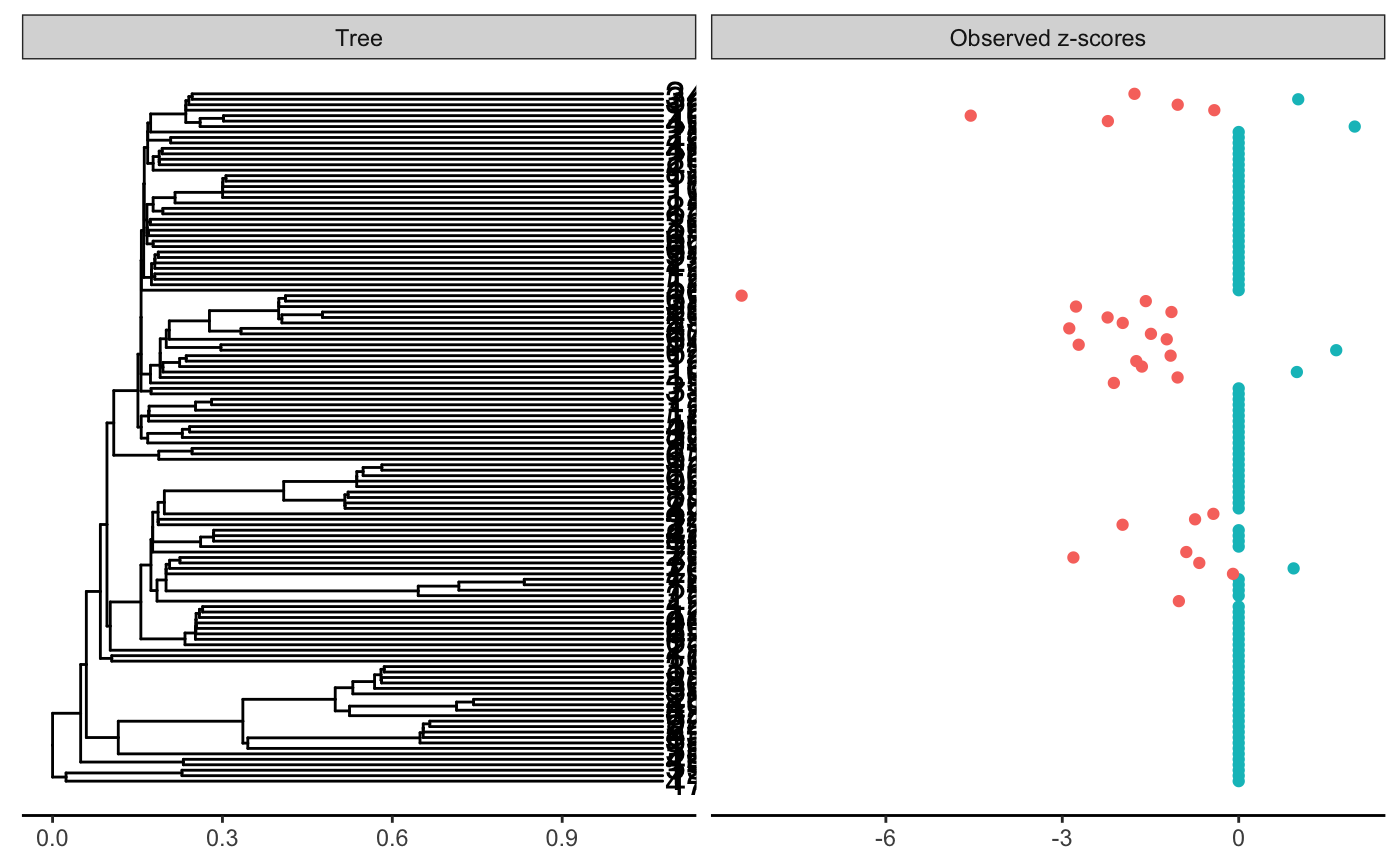
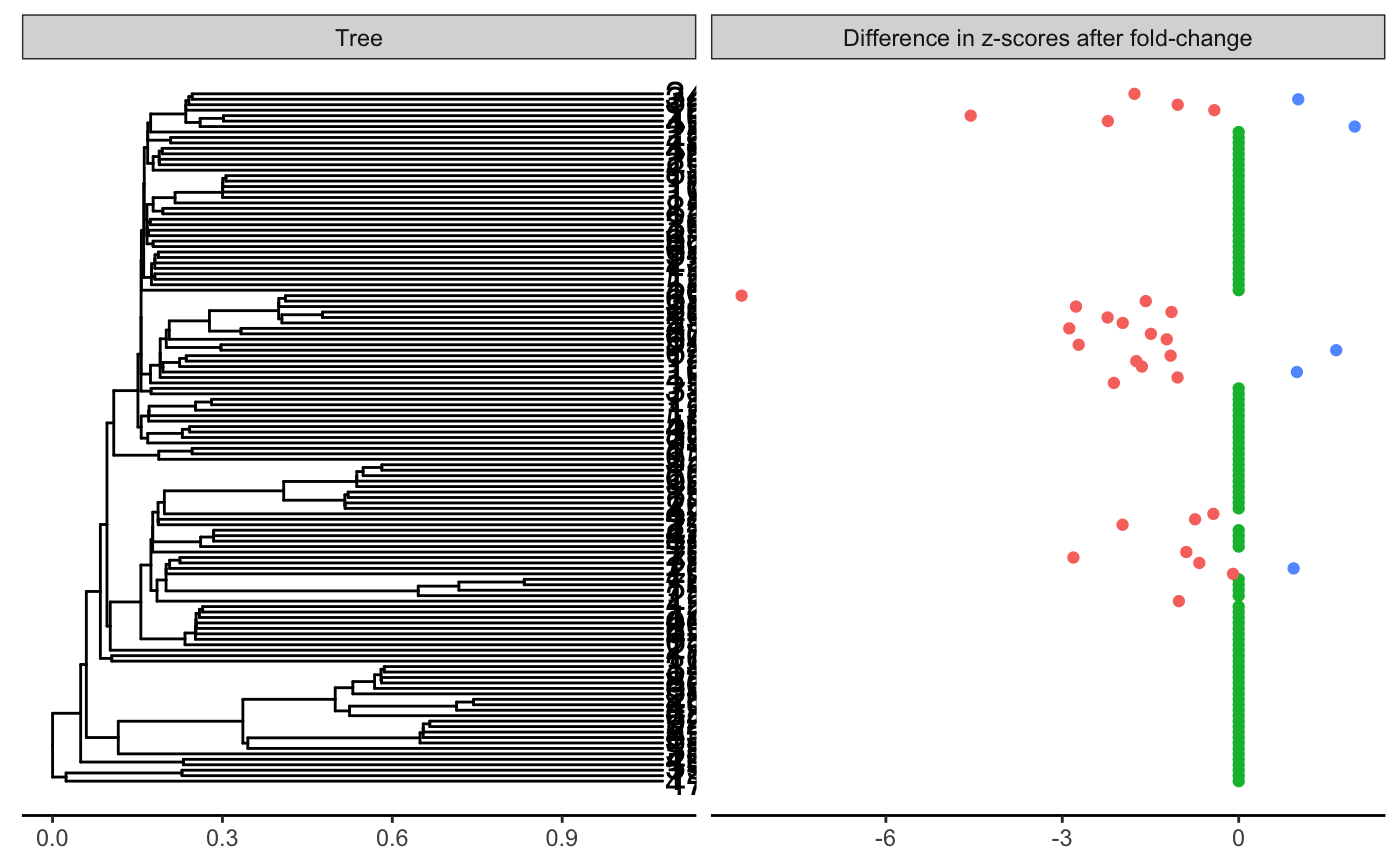
plot_shifts() now accepts supplementary pannels with sup_scores() argument

diff --git a/inst/docs/articles/simulations.html b/inst/docs/articles/simulations.html
@@ -323,8 +323,11 @@
 <a class="sourceLine" id="cb20-3" data-line-number="3"><span class="kw"><a href="../reference/plot_shifts.html">plot_shifts</a></span>(tree, <span class="ot">NA</span>, <span class="dt">obs_scores =</span> zscores)</a>
 <a class="sourceLine" id="cb20-4" data-line-number="4"><span class="co">#&gt; Warning: Removed 253 rows containing missing values (geom_label).</span></a></code></pre></div>
 <p><img src="simulations_files/figure-html/unnamed-chunk-11-1.png" width="700" style="display: block; margin: auto;"></p>
-<div class="sourceCode" id="cb21"><pre class="sourceCode r"><code class="sourceCode r"><a class="sourceLine" id="cb21-1" data-line-number="1"><span class="kw"><a href="../reference/plot_shifts.html">plot_shifts</a></span>(tree, <span class="ot">NA</span>, <span class="dt">obs_scores =</span> zscores <span class="op">-</span><span class="st"> </span>zscores_original)</a>
-<a class="sourceLine" id="cb21-2" data-line-number="2"><span class="co">#&gt; Warning: Removed 253 rows containing missing values (geom_label).</span></a></code></pre></div>
+<div class="sourceCode" id="cb21"><pre class="sourceCode r"><code class="sourceCode r"><a class="sourceLine" id="cb21-1" data-line-number="1"><span class="kw"><a href="../reference/plot_shifts.html">plot_shifts</a></span>(tree, <span class="ot">NA</span>, </a>
+<a class="sourceLine" id="cb21-2" data-line-number="2">            <span class="dt">sup_scores =</span> <span class="kw"><a href="https://rdrr.io/r/base/list.html">list</a></span>(<span class="kw"><a href="https://rdrr.io/r/base/list.html">list</a></span>(<span class="dt">scores =</span> zscores <span class="op">-</span><span class="st"> </span>zscores_original,</a>
+<a class="sourceLine" id="cb21-3" data-line-number="3">                                   <span class="dt">title =</span> <span class="st">"Difference in z-scores after fold-change"</span>,</a>
+<a class="sourceLine" id="cb21-4" data-line-number="4">                                   <span class="dt">color =</span> <span class="st">"as.character(sign(scores))"</span>)))</a>
+<a class="sourceLine" id="cb21-5" data-line-number="5"><span class="co">#&gt; Warning: Removed 253 rows containing missing values (geom_label).</span></a></code></pre></div>
 <p><img src="simulations_files/figure-html/unnamed-chunk-12-1.png" width="700" style="display: block; margin: auto;"></p>
 <div class="sourceCode" id="cb22"><pre class="sourceCode r"><code class="sourceCode r"><a class="sourceLine" id="cb22-1" data-line-number="1">estimation &lt;-<span class="st"> </span><span class="kw"><a href="../reference/estimate_shifts.html">estimate_shifts3</a></span>(<span class="kw"><a href="https://rdrr.io/r/base/rep.html">rep</a></span>(<span class="dv">0</span>, N_branch), <span class="dt">zscores =</span> zscores, </a>
 <a class="sourceLine" id="cb22-2" data-line-number="2">                               <span class="dt">lambda =</span> <span class="kw"><a href="https://rdrr.io/r/base/c.html">c</a></span>(<span class="fl">0.1</span>, <span class="fl">0.5</span>, <span class="dv">1</span>, <span class="dv">2</span>, <span class="dv">5</span>), <span class="dt">tree =</span> tree, <span class="dt">alpha =</span> <span class="kw"><a href="https://rdrr.io/r/base/c.html">c</a></span>(<span class="fl">0.01</span>, <span class="fl">0.1</span>, <span class="dv">1</span>, <span class="dv">5</span>))</a>

diff --git a/inst/docs/articles/chlamydiae.html b/inst/docs/articles/chlamydiae.html
@@ -130,7 +130,7 @@
 <a class="sourceLine" id="cb5-3" data-line-number="3">                               <span class="dt">lambda =</span> <span class="fl">0.1</span>, <span class="dt">tree =</span> tree, <span class="dt">alpha =</span> <span class="dv">1</span>,</a>
 <a class="sourceLine" id="cb5-4" data-line-number="4">                               <span class="dt">method =</span> <span class="st">"L-BFGS-B"</span>)</a>
 <a class="sourceLine" id="cb5-5" data-line-number="5"><span class="kw"><a href="https://rdrr.io/pkg/tictoc/man/tic.html">toc</a></span>()</a>
-<a class="sourceLine" id="cb5-6" data-line-number="6"><span class="co">#&gt; 0.009 sec elapsed</span></a>
+<a class="sourceLine" id="cb5-6" data-line-number="6"><span class="co">#&gt; 0.008 sec elapsed</span></a>
 <a class="sourceLine" id="cb5-7" data-line-number="7">est_lbfgsb</a>
 <a class="sourceLine" id="cb5-8" data-line-number="8"><span class="co">#&gt; Tree is binary with 21 leafs and 40 branches</span></a>
 <a class="sourceLine" id="cb5-9" data-line-number="9"><span class="co">#&gt; Covariance matrix has been estimated from an OU with alpha = 1 and sigma = 7.198 </span></a>
@@ -160,7 +160,7 @@
 <a class="sourceLine" id="cb6-4" data-line-number="4">                                   <span class="dt">lambda =</span> <span class="fl">0.1</span>, <span class="dt">tree =</span> tree, <span class="dt">alpha =</span> <span class="dv">1</span>,</a>
 <a class="sourceLine" id="cb6-5" data-line-number="5">                                   <span class="dt">method =</span> <span class="st">"shooting3"</span>)</a>
 <a class="sourceLine" id="cb6-6" data-line-number="6"><span class="kw"><a href="https://rdrr.io/pkg/tictoc/man/tic.html">toc</a></span>()</a>
-<a class="sourceLine" id="cb6-7" data-line-number="7"><span class="co">#&gt; 0.039 sec elapsed</span></a>
+<a class="sourceLine" id="cb6-7" data-line-number="7"><span class="co">#&gt; 0.04 sec elapsed</span></a>
 <a class="sourceLine" id="cb6-8" data-line-number="8">est_shooting</a>
 <a class="sourceLine" id="cb6-9" data-line-number="9"><span class="co">#&gt; Tree is binary with 21 leafs and 40 branches</span></a>
 <a class="sourceLine" id="cb6-10" data-line-number="10"><span class="co">#&gt; Covariance matrix has been estimated from an OU with alpha = 1 and sigma = 7.198 </span></a>

diff --git a/inst/docs/reference/plot_shifts.html b/inst/docs/reference/plot_shifts.html
@@ -136,7 +136,7 @@
     </div>
 
     <pre class="usage"><span class='fu'>plot_shifts</span>(<span class='no'>tree</span>, <span class='no'>shifts</span>, <span class='kw'>true_scores</span> <span class='kw'>=</span> <span class='kw'>NULL</span>, <span class='kw'>obs_scores</span> <span class='kw'>=</span> <span class='kw'>NULL</span>,
-  <span class='kw'>est_scores</span> <span class='kw'>=</span> <span class='kw'>NULL</span>, <span class='kw'>digits</span> <span class='kw'>=</span> <span class='fl'>3</span>)</pre>
+  <span class='kw'>est_scores</span> <span class='kw'>=</span> <span class='kw'>NULL</span>, <span class='kw'>sup_scores</span> <span class='kw'>=</span> <span class='kw'>NULL</span>, <span class='kw'>digits</span> <span class='kw'>=</span> <span class='fl'>3</span>)</pre>
 
     <h2 class="hasAnchor" id="arguments"><a class="anchor" href="#arguments"></a>Arguments</h2>
     <table class="ref-arguments">
@@ -160,6 +160,12 @@
     <tr>
       <th>est_scores</th>
       <td><p>Leaf-associated scores, as a named vector.</p></td>
+    </tr>
+    <tr>
+      <th>sup_scores</th>
+      <td><p>A list of lists for additional scores to plot. Each
+list must contain at least a 'score" element and eventually a
+'title" and 'color' one.</p></td>
     </tr>
     <tr>
       <th>digits</th>

diff --git a/inst/docs/reference/alcohol.html b/inst/docs/reference/alcohol.html
@@ -158,11 +158,11 @@ diversity at a depth of millions of sequences per sample." PNAS,
 108, 4516-4522. PMCID: PMC3063599</p>
     <h2 class="hasAnchor" id="details"><a class="anchor" href="#details"></a>Details</h2>
 
-    <p>The <code>alcohol</code> data set was taken from a study of the dietary association with the gut
-microbiome (Wu, 2011). Here we include the alcohol intake as the primary
-phenotype. The OTU abundance data consists of 98 samples with 949 OTUs
-with prevalence &gt; 10<!-- %. The raw counts are normalized to account for -->
-variable library sizes.</p>
+    <p>The <code>alcohol</code> data set was taken from a study of the dietary
+association with the gut microbiome (Wu, 2011). Here we include the
+alcohol intake as the primary phenotype. The OTU abundance data consists
+of 98 samples with 949 OTUs with prevalence &gt; 10<!-- %. The raw counts are -->
+normalized to account for variable library sizes.</p>
 <p>The <code>chlamydia</code> data set is taken from a 16s rRNA diversity study
 narrowed to the Chlamydiae bacteria taxon, originally appearing in PNAS.</p>
 
